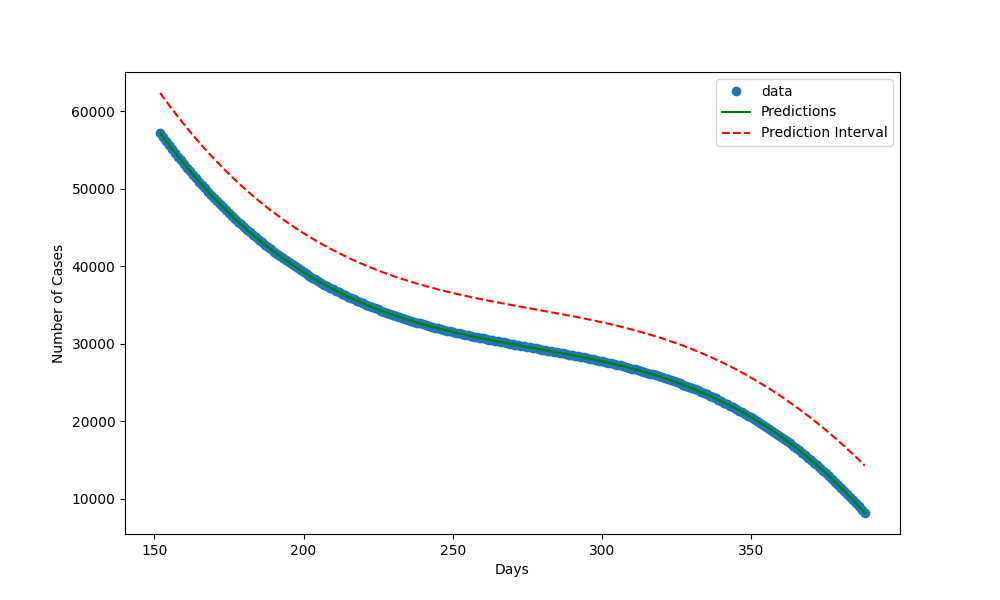
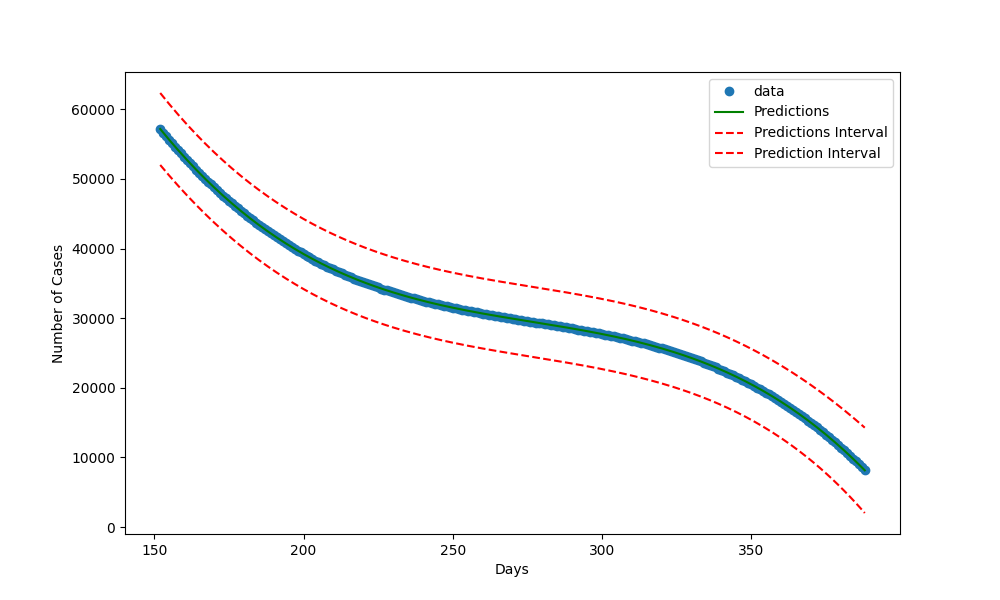
Six

diff --git a/quick.py b/quick.py
@@ -404,7 +404,7 @@ fig, ax = plt.subplots(figsize=(10, 6))
 ax.plot(dfk['Days'], dfk['res'], 'o', label='data')
 # ax.plot(dfk['Days'], model., 'r--.', label='OLS')
 ax.plot(dfk['Days'], model.predict(dfk['Days']), 'g', label='Predictions')
-# ax.plot(dfk['Days'], model.get_prediction(dfk['Days']).summary_frame(alpha=0.05)['obs_ci_lower'], 'r--', label='Predictions') # Remove the negative values from the lower bound
+ax.plot(dfk['Days'], model.get_prediction(dfk['Days']).summary_frame(alpha=0.05)['obs_ci_lower'], 'r--', label='Predictions Interval' ) # Remove the negative values from the lower bound
 
 ax.plot(dfk['Days'], model.get_prediction(dfk['Days']).summary_frame(alpha=0.05)['obs_ci_upper'], 'r--', label='Prediction Interval')
 ax.set_xlabel('Days')
